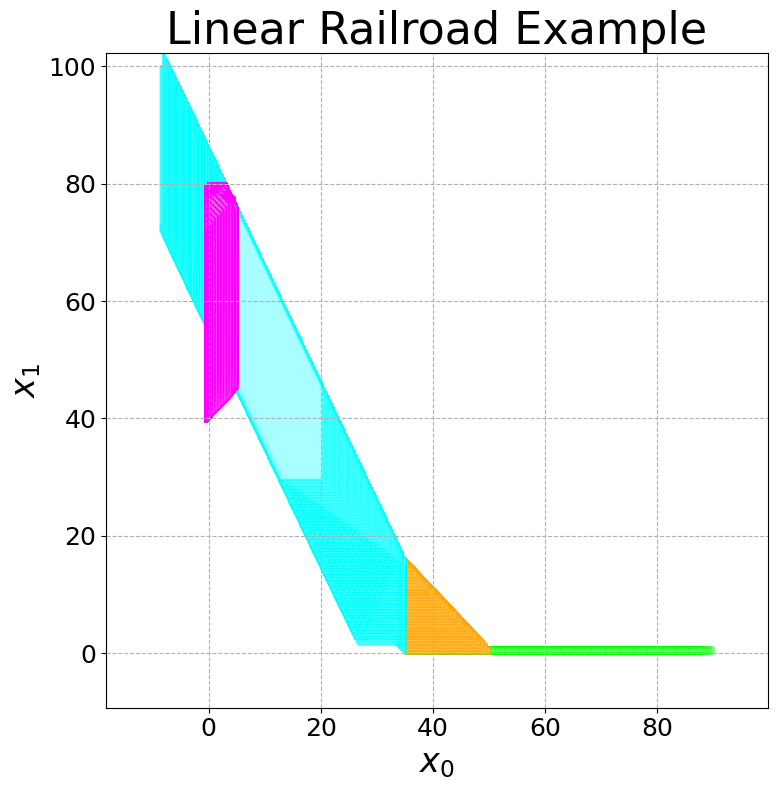
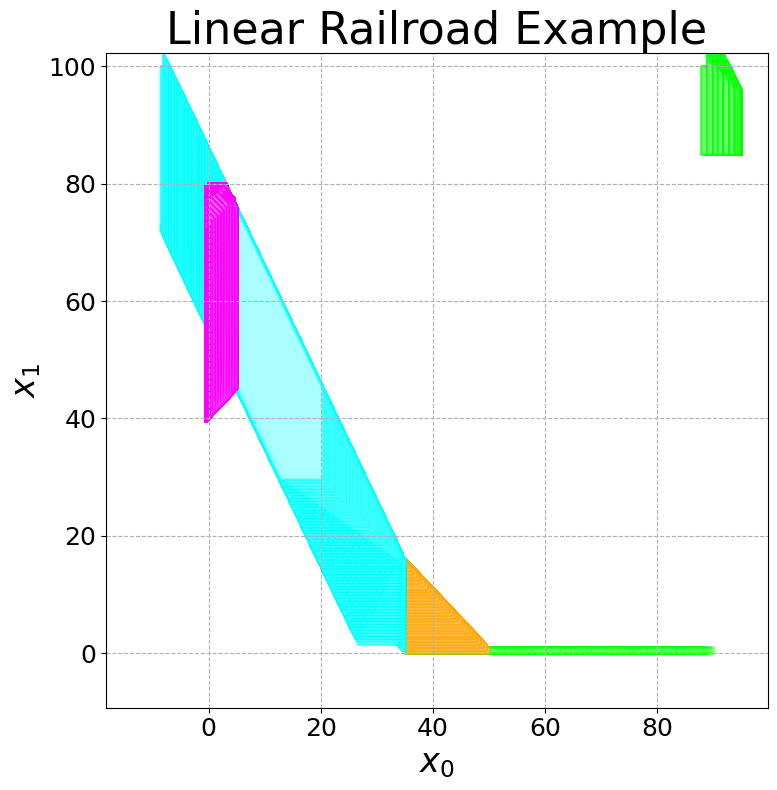
adding reset condition in railroad hylaa ver.

Changed region(s): [[0.8958, 0.0608, 0.9575, 0.2127]]

diff --git a/benchmark/hylaa/railroad.py b/benchmark/hylaa/railroad.py
@@ -84,6 +84,15 @@ def make_automaton():
     guard_rhs = [-5, -85]
     t.set_guard(guard_mat, guard_rhs)
 
+    # bx' = bx, tx' = tx + 100
+    reset_csr = [[1, 0, 0], [0, 1, 0], [0, 0, 1]]
+
+    minkowski_csr = [[1], [0], [0]]
+    constraints_csr = [[1], [-1]]
+    constraints_rhs = [100, -100]
+    t.set_reset(reset_csr, minkowski_csr, constraints_csr, constraints_rhs)
+
+
     # mode2
     t = ha.new_transition(m2, m4)
     # -5 <= tx < 5, bx <= 80
@@ -117,6 +126,14 @@ def make_automaton():
             [-0, -1, -0]]
     guard_rhs = [-5, -85]
     t.set_guard(guard_mat, guard_rhs)
+
+    # bx' = bx, tx' = tx + 100
+    reset_csr = [[1, 0, 0], [0, 1, 0], [0, 0, 1]]
+
+    minkowski_csr = [[1], [0], [0]]
+    constraints_csr = [[1], [-1]]
+    constraints_rhs = [100, -100]
+    t.set_reset(reset_csr, minkowski_csr, constraints_csr, constraints_rhs)
 
     # mode3
 
@@ -153,6 +170,14 @@ def make_automaton():
     guard_rhs = [-5, -85]
     t.set_guard(guard_mat, guard_rhs)
 
+    # bx' = bx, tx' = tx + 100
+    reset_csr = [[1, 0, 0], [0, 1, 0], [0, 0, 1]]
+
+    minkowski_csr = [[1], [0], [0]]
+    constraints_csr = [[1], [-1]]
+    constraints_rhs = [100, -100]
+    t.set_reset(reset_csr, minkowski_csr, constraints_csr, constraints_rhs)
+
     # mode 4
 
     t = ha.new_transition(m4, m4)
@@ -187,6 +212,14 @@ def make_automaton():
             [-0, -1, -0]]
     guard_rhs = [-5, -85]
     t.set_guard(guard_mat, guard_rhs)
+
+    # bx' = bx, tx' = tx + 100
+    reset_csr = [[1, 0, 0], [0, 1, 0], [0, 0, 1]]
+
+    minkowski_csr = [[1], [0], [0]]
+    constraints_csr = [[1], [-1]]
+    constraints_rhs = [100, -100]
+    t.set_reset(reset_csr, minkowski_csr, constraints_csr, constraints_rhs)
 
     '''
     t = ha.new_transition(m2, m3)
